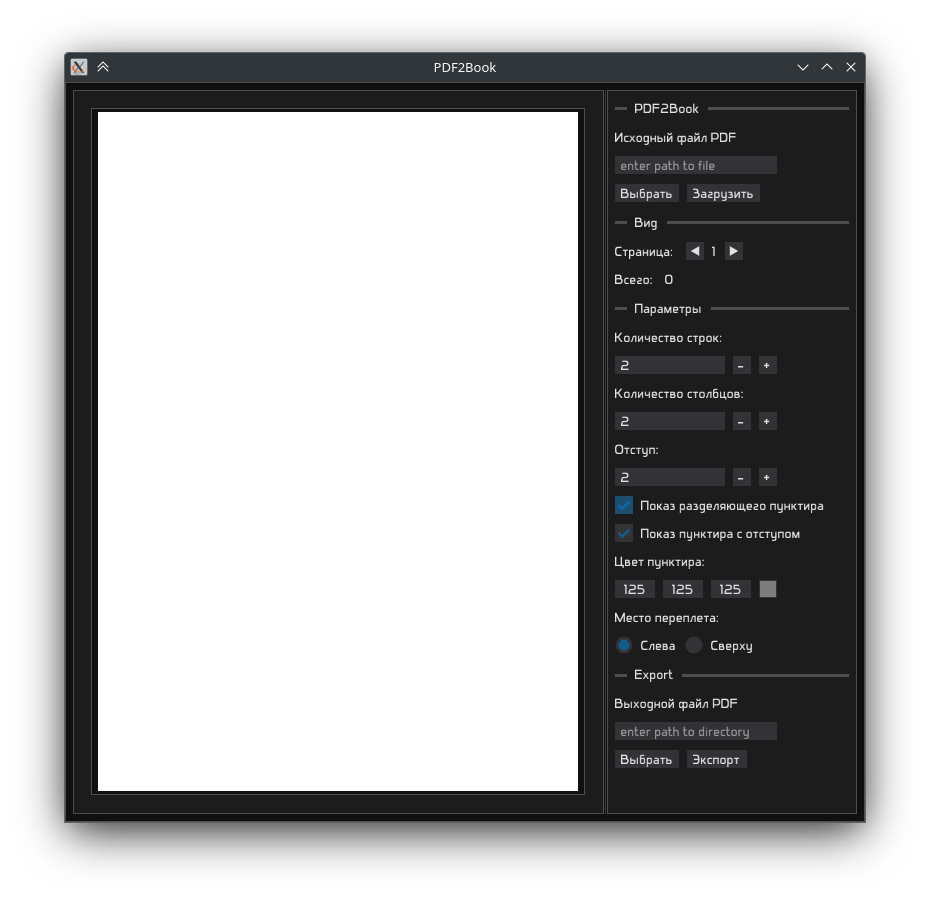
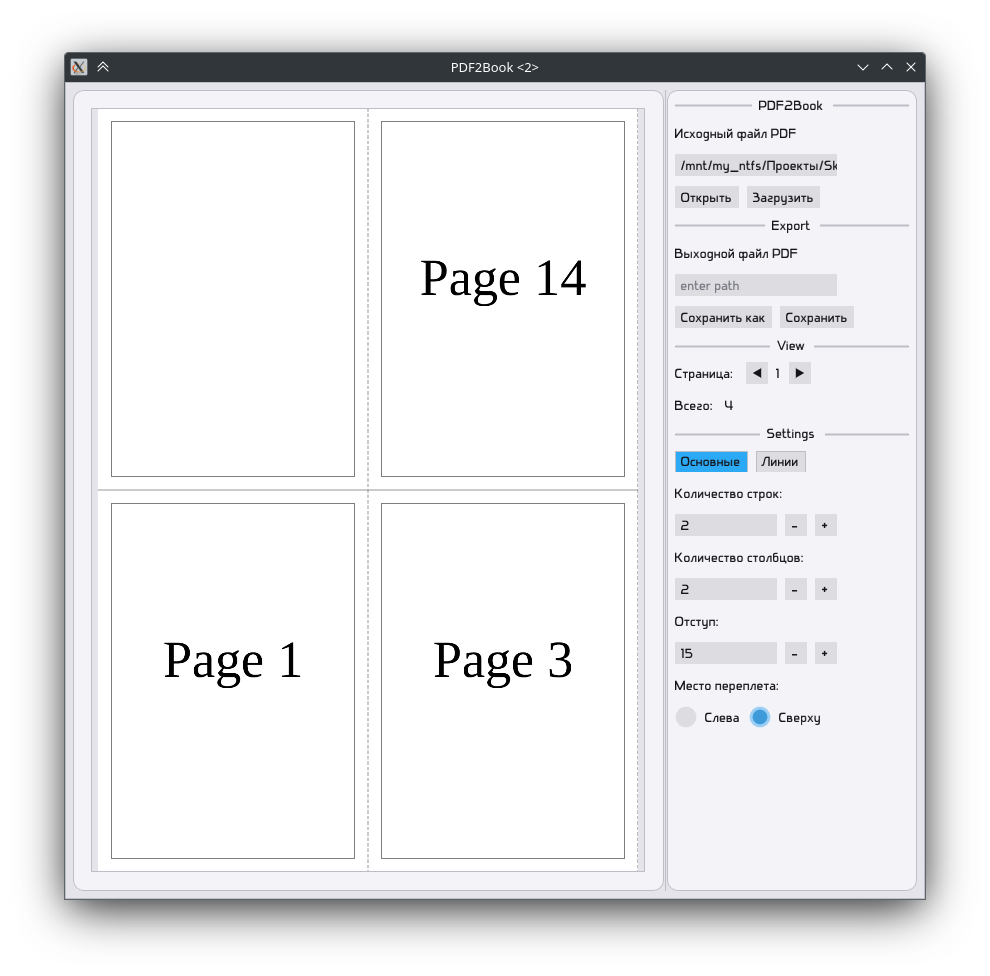
updated README.md

diff --git a/README.md b/README.md
@@ -18,7 +18,7 @@
 
 загружает исходный файл PDF
 
-#### `PDFImposer().update_params(rows=2, cols=2, margin=2, cut_lines=True, cut_color=(0.5, 0.5, 0.5), blocks_are_vertical=False)`
+#### `PDFImposer().update_params(self, rows=2, cols=2, margin=15, show_cut_lines=True, show_margin_lines=True, show_blocks_lines=False, thickness_lines=1, color_lines=(0.5, 0.5, 0.5), dashes_pattern="[4 2] 0", blocks_are_vertical=False)`
 
 обновляет параметры расшивки
 
@@ -39,6 +39,8 @@
 позволяет взаимодействовать с `PDFImposer()` посредствам пользовательского интерфейса
 
 UI реализован с помощью модуля `dearpygui`
+
+В программе реализованы обработчики элементов интерфейса и комбинаций клавиш. Поддерживается динамическое сохранение параметров интерфейса — тем и шрифтов; их можно переключать по нажатию F1 и F2 соответственно
 
 # Подключение
 
